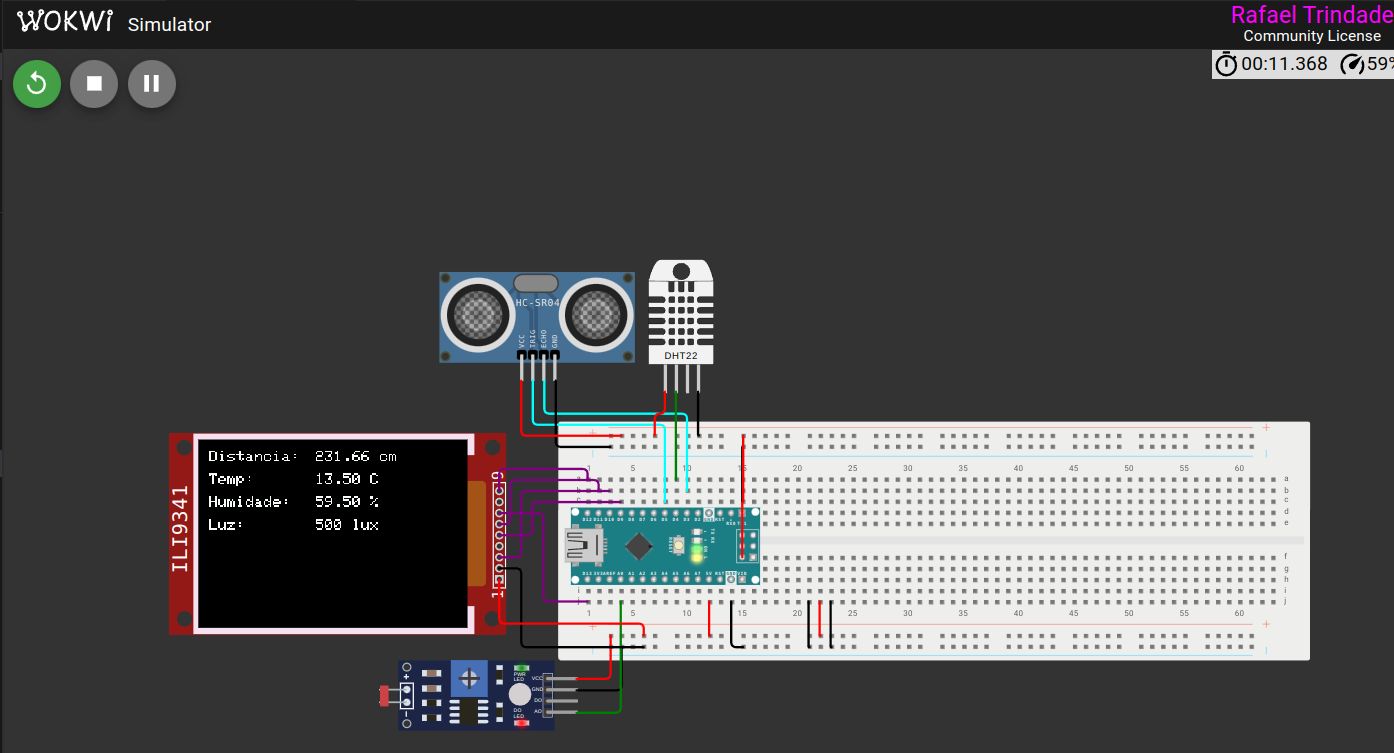
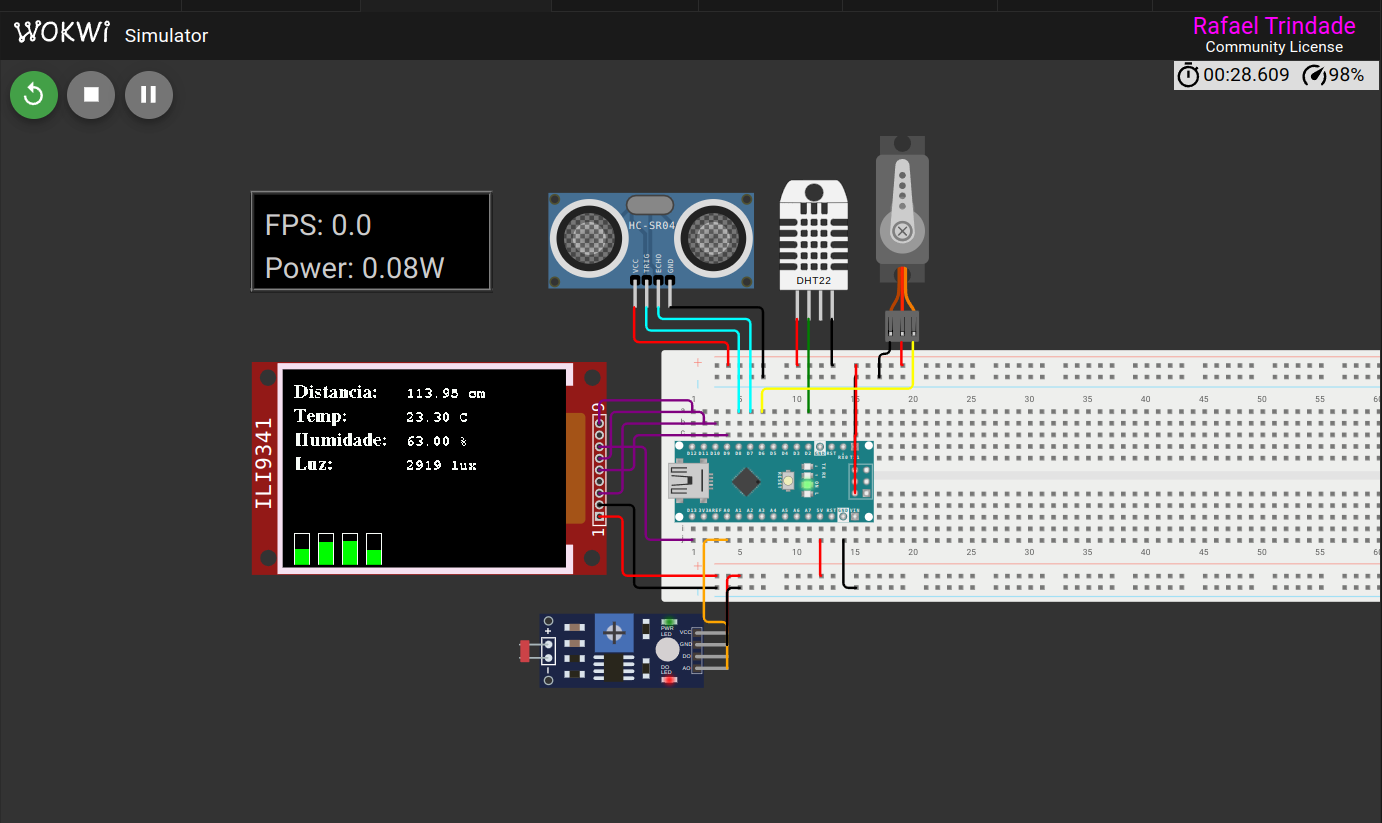
feat: :sparkles: add servo motor, graph bars and logical automation

diff --git a/src/main.cpp b/src/main.cpp
@@ -3,6 +3,10 @@
 #include "SPI.h"
 #include "Adafruit_GFX.h"
 #include "Adafruit_ILI9341.h"
+#include <Servo.h>
+#include <Fonts/FreeSerifBold12pt7b.h>
+#include <Fonts/FreeMonoBold9pt7b.h>
+#include <math.h>
 
 #define TFT_DC 9
 #define TFT_CS 10
@@ -24,6 +28,16 @@ const float RL10 = 50;
 
 DHT dht(DHTPIN, DHTTYPE);
 
+Servo myservo;  // Cria uma instância do Servo
+#define SERVO_PIN 6
+
+// const uint8_t sun_icon [] PROGMEM = {
+//   0x00, 0x00, 0x18, 0x00, 0x00, 0x00, 0x00, 0x7E,
+//   0x18, 0x7E, 0x00, 0x00, 0x18, 0x18, 0xFF, 0x18,
+//   0x18, 0x00, 0x7E, 0x18, 0x7E, 0x00, 0x00, 0x00,
+//   0x18, 0x00, 0x00, 0x00, 0x00
+// };
+
 void setup() {
   Serial.begin(115200);
   pinMode(TRIG_PIN, OUTPUT);
@@ -34,17 +48,21 @@ void setup() {
   tft.setRotation(3); // Ajusta a rotação do display, ajuste conforme necessário
   tft.fillScreen(ILI9341_BLACK); // Preenche a tela com preto
   tft.setTextColor(ILI9341_WHITE); // Define a cor do texto como branco
-  tft.setTextSize(2); // Define o tamanho do texto
+  tft.setFont(&FreeSerifBold12pt7b); // Define a fonte para o texto
+  tft.setTextSize(1); // Define o tamanho do texto
 
   // Texto estático
-  tft.setCursor(10, 10);
+  tft.setCursor(10, 30);
   tft.print("Distancia: ");
-  tft.setCursor(10, 40);
+  tft.setCursor(10, 60);
   tft.print("Temp: ");
-  tft.setCursor(10, 70);
+  tft.setCursor(10, 90);
   tft.print("Humidade: ");
-  tft.setCursor(10, 100);
+  tft.setCursor(10, 120);
   tft.print("Luz: ");
+  
+  myservo.attach(SERVO_PIN);  // Conecta o servo ao pino definido
+  myservo.write(0);  // Inicializa o servo na posição 0°
 }
 
 float readDistanceCM() {
@@ -54,7 +72,7 @@ float readDistanceCM() {
   delayMicroseconds(10);
   digitalWrite(TRIG_PIN, LOW);
   int duration = pulseIn(ECHO_PIN, HIGH);
-  return duration * 0.034 / 2;
+  return duration * 0.0342 / 2;
 }
 
 float readTemperature() {
@@ -87,27 +105,60 @@ void clearTextArea(int x, int y, int w, int h) {
   tft.fillRect(x, y, w, h, ILI9341_BLACK);
 }
 
+void drawBarGraph(int x, int y, int width, int height, float value, float max_value) {
+  value = log(value);
+  max_value = log(max_value);
+
+  // Limpa a área do gráfico antes de desenhar
+  tft.fillRect(x, y - height, width, height, ILI9341_BLACK);
+  
+  // Garante que o valor não ultrapasse o valor máximo
+  if (value > max_value) {
+    value = max_value;
+  }
+  
+  // Calcula a altura da barra proporcional ao valor
+  float barHeight = ((value / max_value) * height);
+  
+  // Desenha o contorno da barra
+  tft.drawRect(x, y - height, width, height, ILI9341_WHITE);
+  
+  // Preenche a barra com a cor verde
+  tft.fillRect(x + 1, y - barHeight, width - 2, barHeight, ILI9341_GREEN);
+}
+
 void displayData(float distance, float temperature, float humidity, int lightIntensity) {
+  tft.setFont(&FreeMonoBold9pt7b); // Define a fonte para os valores
   tft.setTextColor(ILI9341_WHITE); // Define a cor do texto como branco para escrever o texto novo
+
+  // Exibe ícones junto com os valores
+  // tft.drawBitmap(10, 10, sun_icon, 16, 16, ILI9341_YELLOW);
+
   clearTextArea(150, 10, 220, 30);
-  tft.setCursor(150, 10); // Define a posição do cursor para o valor da distância
+  tft.setCursor(150, 30); // Define a posição do cursor para o valor da distância
   tft.print(distance);
   tft.print(" cm");
 
   clearTextArea(150, 40, 220, 30);
-  tft.setCursor(150, 40); // Define a posição do cursor para o valor da temperatura
+  tft.setCursor(150, 60); // Define a posição do cursor para o valor da temperatura
   tft.print(temperature);
   tft.print(" C");
 
   clearTextArea(150, 70, 220, 30);
-  tft.setCursor(150, 70); // Define a posição do cursor para o valor da humidade
+  tft.setCursor(150, 90); // Define a posição do cursor para o valor da humidade
   tft.print(humidity);
   tft.print(" %");
 
   clearTextArea(150, 100, 220, 30);
-  tft.setCursor(150, 100); // Define a posição do cursor para o valor da luz
+  tft.setCursor(150, 120); // Define a posição do cursor para o valor da luz
   tft.print(lightIntensity);
   tft.print(" lux");
+
+  // Desenha gráficos de barras
+  drawBarGraph(10, 300, 20, 100, distance, 400); // Exemplo para distância
+  drawBarGraph(40, 300, 20, 100, temperature + 20, 70); // Exemplo para temperatura
+  drawBarGraph(70, 300, 20, 100, humidity, 100); // Exemplo para umidade
+  drawBarGraph(100, 300, 20, 100, lightIntensity, 30000); // Exemplo para luz
 }
 
 void loop() {
@@ -118,5 +169,11 @@ void loop() {
 
   displayData(distance, temperature, humidity, lightIntensity);
 
-  delay(100);
+  if (distance >= 100) {
+    myservo.write(90);  // Gira o servo para 90°
+  } else {
+    myservo.write(0);   // Retorna o servo para 0°
+  }
+
+  delay(500);
 }

diff --git a/README.md b/README.md
@@ -2,6 +2,9 @@
 
 ## Project Name: Smart Garden
 
+#### [Click here to visit the Smart Garden project on Wokwi](https://wokwi.com/projects/398913098629206017 "Visit the Smart Garden project on Wokwi")
+
+
 ### Project Overview:
 The Smart Garden project aims to create a self-sustaining and automated gardening system that monitors and optimizes plant growth conditions. This system utilizes various sensors and actuators to provide real-time data and control over environmental factors such as temperature, humidity, light intensity, and soil moisture.
 ![Smart Garden System](assets/image.png)
